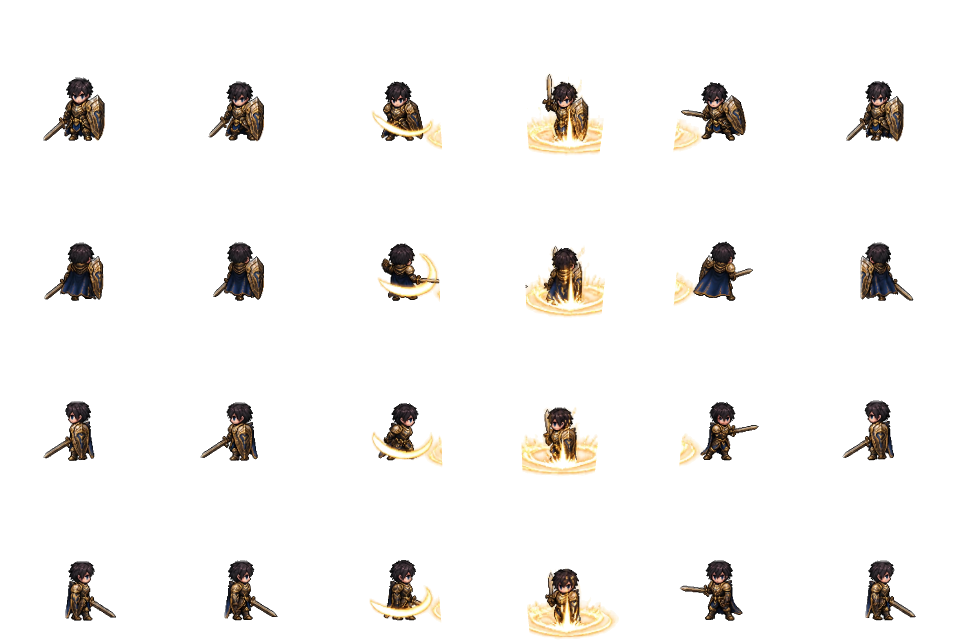
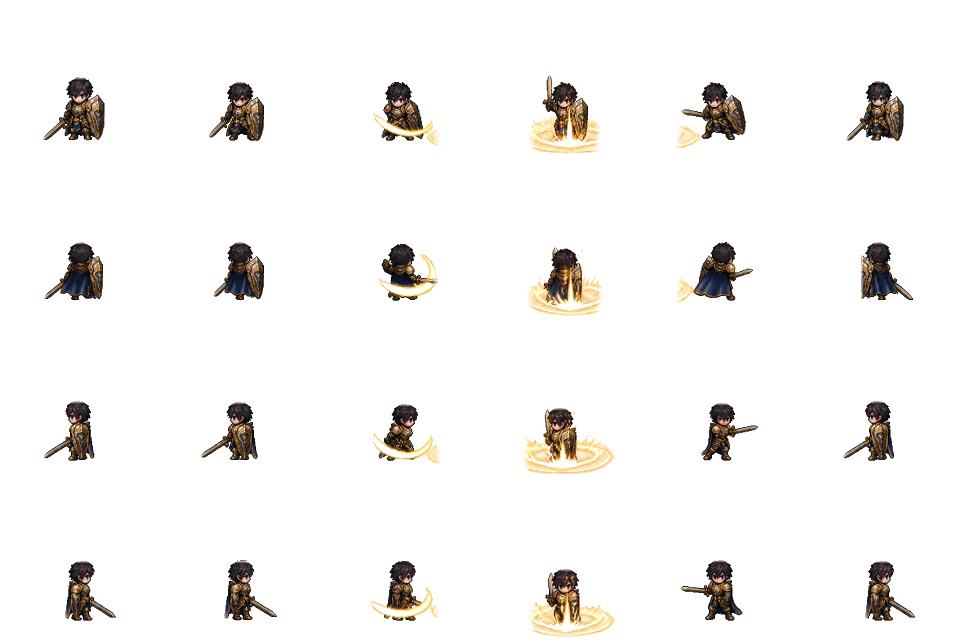
Polish: Warden skills face the right way (build-player sheet option swapSides: WD SK6 col 3 showed the back of the head; Dawn Bastion skips the backwards thrust frame); Bulwark sprites lose the white halo (preset bg glowToAlpha: glow painted over the white sheet becomes translucent gold) and cut eff

diff --git a/tools/build-player.js b/tools/build-player.js
@@ -115,7 +115,7 @@ PRESETS.be = { out: 'assets/player/be', nearestBody: true, sheets: {
 // facing: row 3 is the only side row drawn consistently (row 2 turns its head / cuts the other way, DASH / SK2 draw
 // both rows facing right) -> row 3 = right, mirrored for the left, so the head always faces the blow
 const WD = 'desgin/class cr/AG/WD/';
-PRESETS.wd = { out: 'assets/player/wd', nearestBody: true, bg: PRESETS.ag.bg, facing: { right: 3, left: 3, flipLeft: true }, sheets: {
+PRESETS.wd = { out: 'assets/player/wd', nearestBody: true, edgeFade: 8, splitFeather: 60, bg: PRESETS.ag.bg, facing: { right: 3, left: 3, flipLeft: true }, sheets: {
   walk: [WD + 'WALK 1', 4],
   atk1: [WD + 'ATK1', 4],
   atk2: [WD + 'ATK2', 4],
@@ -126,12 +126,13 @@ PRESETS.wd = { out: 'assets/player/wd', nearestBody: true, bg: PRESETS.ag.bg, fa
   sk3: [WD + 'SK3', 4],
   sk4: [WD + 'SK4', 4],
   sk5: [WD + 'SK5', 4],
-  sk6: [WD + 'SK6', 4],
+  sk6: [WD + 'SK6', 4, { swapSides: [3] }], // col 3 of the right row shows the back of the head
   ult: [WD + 'UT', 4],
 } };
 // Bulwark Sentinel (Class 2 of Aegis Guardian): gold / steel fortress plate, tower shield, bastion sword
 const BS = 'desgin/class cr/AG/BS/';
-PRESETS.bs = { out: 'assets/player/bs', nearestBody: true, bg: PRESETS.ag.bg, sheets: {
+// glowToAlpha: its gold skill glow is painted over the white sheet (it came out as a white halo around the body)
+PRESETS.bs = { out: 'assets/player/bs', nearestBody: true, edgeFade: 8, splitFeather: 60, bg: { ...PRESETS.ag.bg, glowToAlpha: true }, sheets: {
   walk: [BS + 'WALK 1', 4],
   idle: [BS + 'WALK 2', 4],
   atk1: [BS + 'ATK1', 4],
@@ -185,8 +186,34 @@ function removeBackground(img, bg = DEFAULT_BG) {
     for (const q of nb) if (q >= 0 && !mark[q] && isBg(q * 4, true)) { mark[q] = 1; stack.push(q); }
   }
   if (bg.holes) fillPockets(mark, w, h, bg.holes);
+  // glowToAlpha: effect glow painted over the WHITE sheet is opaque cream (a white halo in game). Pixels reachable from
+  // the background through light pixels (every channel > glowMin), at most glowDepth px deep, get "colour to alpha"
+  // against white: the whiteness becomes transparency, the tint stays (cream glow -> translucent gold).
+  // Armour highlights are enclosed by the dark outline, so the fill never reaches them.
+  const glow = new Uint8Array(w * h);
+  if (bg.glowToAlpha) {
+    const [gMin, gDepth] = [bg.glowMin ?? 150, bg.glowDepth ?? 40], dep = new Int16Array(w * h).fill(-1), q = [];
+    for (let p = 0; p < w * h; p++) if (mark[p]) { dep[p] = 0; q.push(p); }
+    const light = (p) => { const i = p * 4; return Math.min(data[i], data[i + 1], data[i + 2]) > gMin; };
+    for (let k = 0; k < q.length; k++) {
+      const p = q[k], x = p % w, y = (p / w) | 0;
+      if (dep[p] >= gDepth) continue;
+      for (const n of [x > 0 ? p - 1 : -1, x < w - 1 ? p + 1 : -1, y > 0 ? p - w : -1, y < h - 1 ? p + w : -1]) {
+        if (n < 0 || dep[n] >= 0 || mark[n] || !light(n)) continue;
+        dep[n] = dep[p] + 1; glow[n] = 1; q.push(n);
+      }
+    }
+    for (let p = 0; p < w * h; p++) {
+      if (!glow[p]) continue;
+      const i = p * 4, a = Math.max(255 - data[i], 255 - data[i + 1], 255 - data[i + 2]) / 255;
+      if (a < 0.04) { mark[p] = 1; continue; }
+      for (let c = 0; c < 3; c++) data[i + c] = Math.max(0, Math.min(255, Math.round((data[i + c] - 255 * (1 - a)) / a)));
+      data[i + 3] = Math.round(a * 255 * (data[i + 3] / 255));
+    }
+  }
   for (let p = 0; p < w * h; p++) {
     if (mark[p]) { data[p * 4 + 3] = 0; continue; }
+    if (glow[p]) continue; // already un-mixed from white
     // soften light fringe pixels touching the background (un-mix from white)
     const x = p % w, y = (p / w) | 0;
     const touches = (x > 0 && mark[p - 1]) || (x < w - 1 && mark[p + 1]) || (y > 0 && mark[p - w]) || (y < h - 1 && mark[p + w]);
@@ -304,7 +331,7 @@ function analyseCell(img, x0, y0, cw, ch) {
 
 // FEATHER: effects that cross a source cell border fade out over this many output px
 // instead of ending on a hard straight line.
-const FEATHER = 4;
+let FEATHER = 4; // per preset: cutFeather
 function downscale(src, sx, sy, sw, sh, scale, clip) {
   const dw = Math.max(1, Math.round(sw * scale)), dh = Math.max(1, Math.round(sh * scale));
   const out = png.create(dw, dh);
@@ -585,7 +612,14 @@ function componentFrames(img, y0, y1, xs, n = COLS, opts = {}) {
           if (nx >= 0 && ny >= 0 && nx < W && ny < H) { const m = lab[ny * W + nx]; if (owns(m, k) && pixelOwner(m, nx, ny) === k) own = true; }
         }
       }
-      if (own) d.copy(f.data, (y * fw + x) * 4, at(sx, sy), at(sx, sy) + 4);
+      if (own) {
+        d.copy(f.data, (y * fw + x) * 4, at(sx, sy), at(sx, sy) + 4);
+        // opts.splitFeather: an effect shared by two frames is split by nearest body -> fade near that seam
+        if (opts.splitFeather && l >= 0 && owner[l] === -2) {
+          const ds = bodies[l].map((b) => ({ k: b.k, d: Math.hypot(b.x - sx, b.y - sy) })).sort((p, q) => p.d - q.d);
+          if (ds.length > 1) f.data[(y * fw + x) * 4 + 3] = Math.round(f.data[(y * fw + x) * 4 + 3] * Math.min(1, (ds[1].d - ds[0].d) / opts.splitFeather));
+        }
+      }
     }
     if (bBot >= 0) f.body = { top: bTop - miny, bottom: bBot - miny };
     frames.push(f);
@@ -595,7 +629,8 @@ function componentFrames(img, y0, y1, xs, n = COLS, opts = {}) {
 
 const [CW, CH] = STD.canvas, [PX, PY] = STD.pivot;
 function buildPreset(key) {
-const { out: outRel, sheets: SHEETS, facing: FACING, nearestBody, bg } = PRESETS[key];
+const { out: outRel, sheets: SHEETS, facing: FACING, nearestBody, bg, edgeFade, splitFeather, cutFeather } = PRESETS[key];
+FEATHER = cutFeather || 4;
 const OUT = path.join(ROOT, outRel);
 fs.mkdirSync(OUT, { recursive: true });
 console.log('== preset', key, '->', outRel);
@@ -610,7 +645,7 @@ for (const [name, [file, rows, opt = {}]] of Object.entries(SHEETS)) {
   for (let r = 0; r < rows; r++) {
     const bx = bodyProjection(img, ys[r], ys[r + 1]), px = projection(img, false, ys[r], ys[r + 1]);
     const xs = blobSplits(bx, n, img.width) || blobSplits(px, n, img.width) || splits(px, n, img.width);
-    const frames = componentFrames(img, ys[r], ys[r + 1], xs, n, { nearestBody });
+    const frames = componentFrames(img, ys[r], ys[r + 1], xs, n, { nearestBody, splitFeather });
     while (frames.length < COLS) frames.push(frames[frames.length - 1]); // short rows: hold the last pose
     for (let c = 0; c < COLS; c++) {
       const f = frames[c];
@@ -640,8 +675,19 @@ for (const [name, [file, rows, opt = {}]] of Object.entries(SHEETS)) {
       const h = darkHeight(f);
       if (h > bestH || (h === bestH && Math.abs(shift) < bestShift)) { frame = f; bestH = h; bestShift = Math.abs(shift); }
     }
+    // edgeFade: effects reaching the canvas edge (a ground ring below the feet) fade out instead of a straight cut
+    if (edgeFade) for (let y = 0; y < frame.height; y++) for (let x = 0; x < frame.width; x++) {
+      const e = Math.min(x, y, frame.width - 1 - x, frame.height - 1 - y);
+      if (e < edgeFade) { const i = (y * frame.width + x) * 4 + 3; frame.data[i] = Math.round(frame.data[i] * (e / edgeFade)); }
+    }
     blit(sheet, frame, c * CW, r * CH);
   });
+  // swapSides: [cols] — the AI drew these columns of the two side rows the wrong way round (the right-facing row
+  // looks / strikes left and vice versa): exchange them so each side row faces its own way
+  for (const c of opt.swapSides || []) for (let base = 0; base < rows; base += 4) for (let y = 0; y < CH; y++) {
+    const a = ((base + 2) * CH + y) * sheet.width * 4 + c * CW * 4, b = ((base + 3) * CH + y) * sheet.width * 4 + c * CW * 4;
+    const tmp = Buffer.from(sheet.data.subarray(a, a + CW * 4)); sheet.data.copy(sheet.data, a, b, b + CW * 4); tmp.copy(sheet.data, b);
+  }
   png.write(path.join(OUT, name + '.png'), sheet);
   const sides = [];
   const face = opt.facing || FACING; // per-sheet facing override > preset facing > detected

diff --git a/src/player/player.js b/src/player/player.js
@@ -9,6 +9,7 @@ import { ResourcePool } from '../combat/resourceSystem.js';
 import { RESOURCES } from '../data/resources.js';
 import { SkillSystem } from '../combat/skillSystem.js';
 import { MARKS } from '../data/marks.js';
+import { STATUSES } from '../data/statuses.js';
 import { Loadout } from './loadout.js';
 import { ActionRecorder } from '../combat/actionRecorder.js';
 import { evaluateBlock } from '../combat/guardSystem.js';
@@ -611,12 +612,45 @@ export class Player extends Entity {
     return this.sprites.frame(this.anim, t, dir, variant);
   }
 
+  // STATUS AURA (data/statuses.js 'aura'): while a mode is active it stays visible — ground ring + glow under the feet,
+  // light columns, a tinted pulse on the body, rising motes. { color: 'r,g,b', ring, columns, body, motes, scale }
+  drawAura(ctx, a, layer, f, y) {
+    const g = this.game, t = g.time, s = a.scale || 1, c = a.color, pulse = 0.5 + 0.5 * Math.sin(t * 4);
+    if (layer === 'under') {
+      ctx.save();
+      ctx.globalCompositeOperation = 'lighter';
+      const R = 30 * s * (a.ring || 1);
+      const gr = ctx.createRadialGradient(this.x, this.y, 2, this.x, this.y, R);
+      gr.addColorStop(0, `rgba(${c},${0.35 + 0.15 * pulse})`); gr.addColorStop(1, `rgba(${c},0)`);
+      ctx.fillStyle = gr; ctx.beginPath(); ctx.ellipse(this.x, this.y, R, R * 0.42, 0, 0, TAU); ctx.fill();
+      ctx.strokeStyle = `rgba(${c},${0.55 + 0.3 * pulse})`; ctx.lineWidth = 2;
+      ctx.beginPath(); ctx.ellipse(this.x, this.y, R * (0.8 + 0.08 * pulse), R * 0.34 * (0.8 + 0.08 * pulse), 0, 0, TAU); ctx.stroke();
+      ctx.beginPath(); ctx.ellipse(this.x, this.y, R * 0.55, R * 0.23, 0, 0, TAU); ctx.stroke();
+      for (let i = 0; i < (a.columns || 0); i++) { // light columns around the body (a fortress of light)
+        const ang = (i / a.columns) * TAU + t * 0.6, cx = this.x + Math.cos(ang) * R * 0.8, cy = this.y + Math.sin(ang) * R * 0.34;
+        const h = (34 + 10 * Math.sin(t * 3 + i)) * s, lg = ctx.createLinearGradient(cx, cy, cx, cy - h);
+        lg.addColorStop(0, `rgba(${c},0.5)`); lg.addColorStop(1, `rgba(${c},0)`);
+        ctx.fillStyle = lg; ctx.fillRect(cx - 2, cy - h, 4, h);
+      }
+      ctx.restore();
+      if (a.motes && Math.random() < a.motes * 0.2) { // ~12 motes a second at 60 fps
+        const ang = Math.random() * TAU, r = Math.random() * R * 0.8;
+        g.vfx.particle(this.x + Math.cos(ang) * r, this.y + Math.sin(ang) * r * 0.4, { vx: 0, vy: -40 - Math.random() * 30, color: `rgb(${c})`, life: 0.8, size: 2, grav: 0, drag: 0.5 });
+      }
+    } else if (a.body && f) { // tinted glow pulse over the body (class ghost / flash sheets)
+      ctx.globalCompositeOperation = 'lighter';
+      this.sprites.draw(ctx, this.currentFrame('flash'), this.x, y, a.body * (0.4 + 0.6 * pulse));
+      ctx.globalCompositeOperation = 'source-over';
+    }
+  }
   draw(ctx) {
     const g = this.game;
     // shadow
     const sk = this.stealthK || 0; // stealth: body fades to ~35%, shadow almost gone
     ctx.fillStyle = `rgba(0,0,0,${0.35 * (1 - sk * 0.7)})`;
     ctx.beginPath(); ctx.ellipse(this.x, this.y, 12, 4.5, 0, 0, TAU); ctx.fill();
+    const auras = this.status.list().map((s) => STATUSES[s.id].aura).filter(Boolean); // status data 'aura' (a mode is on)
+    for (const a of auras) this.drawAura(ctx, a, 'under');
     if (this.markId && this.marks >= this.maxMarks) {
       ctx.fillStyle = MARKS[this.markId].display.color;
       ctx.globalAlpha = 0.3 + 0.15 * Math.sin(g.time * 8);
@@ -649,6 +683,7 @@ export class Player extends Entity {
       const ff = this.currentFrame('flash');
       this.sprites.draw(ctx, ff, this.x, y, Math.min(1, this.flash * 8) * 0.8);
     }
+    for (const a of auras) this.drawAura(ctx, a, 'over', f, y);
     if (this.status.has('surge')) {
       ctx.globalCompositeOperation = 'lighter';
       this.sprites.draw(ctx, this.currentFrame('ghost'), this.x, y, 0.18 + 0.08 * Math.sin(g.time * 10));

diff --git a/src/data/statuses.js b/src/data/statuses.js
@@ -18,6 +18,7 @@
 //  absorb     : shield — data.amount points of damage absorbed before HP
 //  vulnerable : target takes the weak-window bonus from combat/damageSystem.js
 //  display    : UI only (short label + colour)
+//  aura       : drawn around the holder while active (Player.drawAura) — { color: 'r,g,b', ring, columns, body, motes, scale }
 export const STATUSES = {
   // ---- control
   stun: { id: 'stun', category: 'control', maxStacks: 1, stacking: 'longest', flags: ['cannotAct'], display: { label: 'STUN', color: '#ffe070' } },
@@ -64,9 +65,9 @@ export const STATUSES = {
   shared_resolve: { id: 'shared_resolve', category: 'buff', maxStacks: 1, stacking: 'refresh', modifiers: { defenseMult: 1.3 }, display: { label: 'RESOLVE', color: '#bfe6ff' } },
   // ---- Bulwark Sentinel (skills/bulwarkSentinel.js)
   iron_bastion: { id: 'iron_bastion', category: 'defense', maxStacks: 1, stacking: 'refresh', modifiers: { damageTakenMult: 0.6, moveMult: 0.55 }, display: { label: 'IRON BASTION', color: '#e8c86a' } },
-  fortified: { id: 'fortified', category: 'buff', maxStacks: 1, stacking: 'refresh', flags: ['unshakable'], modifiers: { defenseMult: 1.4, guardBlockMult: 0.5 }, display: { label: 'FORTIFIED', color: '#ffd24a' } },
+  fortified: { id: 'fortified', category: 'buff', maxStacks: 1, stacking: 'refresh', flags: ['unshakable'], modifiers: { defenseMult: 1.4, guardBlockMult: 0.5 }, aura: { color: '255,200,90', ring: 0.9, body: 0.06 }, display: { label: 'FORTIFIED', color: '#ffd24a' } },
   shieldwall: { id: 'shieldwall', category: 'defense', maxStacks: 1, stacking: 'refresh', modifiers: { damageTakenMult: 0.6 }, display: { label: 'SHIELDWALL', color: '#9ac8ff' } },
-  citadel: { id: 'citadel', category: 'defense', maxStacks: 1, stacking: 'refresh', flags: ['unshakable'], modifiers: { damageTakenMult: 0.5, moveMult: 0.35, dodgeCostMult: 2, guardBlockMult: 0.5 }, display: { label: 'CITADEL', color: '#ffe8a0' } },
+  citadel: { id: 'citadel', category: 'defense', maxStacks: 1, stacking: 'refresh', flags: ['unshakable'], modifiers: { damageTakenMult: 0.5, moveMult: 0.35, dodgeCostMult: 2, guardBlockMult: 0.5 }, aura: { color: '140,200,255', ring: 1.6, columns: 6, body: 0.1, motes: 1 }, display: { label: 'CITADEL', color: '#ffe8a0' } },
   citadel_ward: { id: 'citadel_ward', category: 'defense', maxStacks: 1, stacking: 'refresh', modifiers: { damageTakenMult: 0.8 }, display: { label: 'WARDED', color: '#bfe0ff' } },
   iron_will: { id: 'iron_will', category: 'buff', maxStacks: 1, stacking: 'refresh', modifiers: { defenseMult: 1.5 }, display: { label: 'IRON WILL', color: '#e0b060' } },
   damage_reduction: { id: 'damage_reduction', category: 'defense', maxStacks: 1, stacking: 'longest', modifiers: { damageTakenMult: 0.8 }, display: { label: 'GUARD', color: '#c8d8ff' } },

diff --git a/src/skills/bulwarkSentinel.js b/src/skills/bulwarkSentinel.js
@@ -309,7 +309,9 @@ export const BulwarkSentinel = {
               g.vfx.sprite('bs_citadel', p.x, p.y - 34, 0, { scale: 1.6, life: 0.9, glow: 0.4, alpha: 0.9 });
               g.vfx.ring(p.x, p.y, 20, c.tauntRadius, { life: 0.5, width: 5, color: HOLY, fill: true });
               g.vfx.text(p.x, p.y - 92, 'CITADEL OF ONE', { color: PALE, size: 14, life: 1.2 });
-              p.status.add('citadel', c.duration, { source: p, refresh: true });
+              p.status.add('citadel', c.duration, { source: p, refresh: true }); // + its aura (data/statuses.js)
+              // the fortress stays around the Bulwark for the whole mode (faint held frame, follows it)
+              g.vfx.sprite('bs_citadel', 0, 0, 0, { follow: p, off: 22, scale: 1.1, life: c.duration, frame: 3, glow: 0.2, alpha: 0.3 } /* off: that frame's fortress sits left of its centre */);
               p.citadelPulse = 0;
               g.combat.spawnHitbox({ owner: p, x: p.x, y: p.y - 8, shape: 'circle', r: 110, power: 2.2, type: 'holy', knock: 280, stagger: 60, hitStop: 0.12, shake: 0.4, big: true });
             }],

diff --git a/tools/build-vfx.js b/tools/build-vfx.js
@@ -55,11 +55,11 @@ const SETS = {
   // Bulwark Sentinel (gold fortress + blue steel light). SK3 has an opaque fake-checker background -> not used.
   // SK1 / SK4 carry direction labels in the first column (stripped); SK4 has 8 rows (2 sets), row 0 = front view.
   bs: {
-    src: 'desgin/VFX/AG/BS', detectRows: true, clean: true, feather: 40,
+    src: 'desgin/VFX/AG/BS', detectRows: true, clean: false, feather: 40, // clean off: its speckled glow lost pixels (holes)
     names: { SK1: 'bs_aegis', SK2: 'bs_charge', SK4: 'bs_wall', SK5: 'bs_crest', SK6: 'bs_pillar', SK7: 'bs_citadel' },
     rows: { SK1: 0, SK2: 3, SK4: 0, SK5: 0, SK6: 0, SK7: 0 },
     stripLabel: { SK1: 118, SK4: 80 },
-    dropLow: { SK1: 0.86 }, recenter: { SK1: true },
+    dropLow: { SK1: 0.86 }, recenter: { SK1: true, SK4: true },
   },
   aw: {
     src: 'desgin/VFX/AW', detectRows: true, clean: true,

diff --git a/src/skills/wardenOfDawn.js b/src/skills/wardenOfDawn.js
@@ -26,7 +26,7 @@ export const WD_ANIMS = {
   guard: { sheet: 'sk1', cols: [1], side: { sheet: 'walk', cols: [0] } },
   dawnShield: { sheet: 'sk1', cols: [1, 2, 2, 4] },
   radiantChain: { sheet: 'sk2', cols: [1, 2, 3, 3, 4] },
-  dawnBastion: { sheet: 'sk3', cols: [1, 2, 3, 3, 4] },
+  dawnBastion: { sheet: 'sk3', cols: [1, 2, 3, 3, 3] }, // col 4 thrusts backwards in both side rows
   march: { sheet: 'sk4', cols: [1, 2, 2, 3, 3, 4] },
   grace: { sheet: 'sk5', cols: [1, 2, 3, 3, 4] },
   counter: { sheet: 'sk6', cols: [2, 3, 3, 4] },   // pillar of light -> riposte
